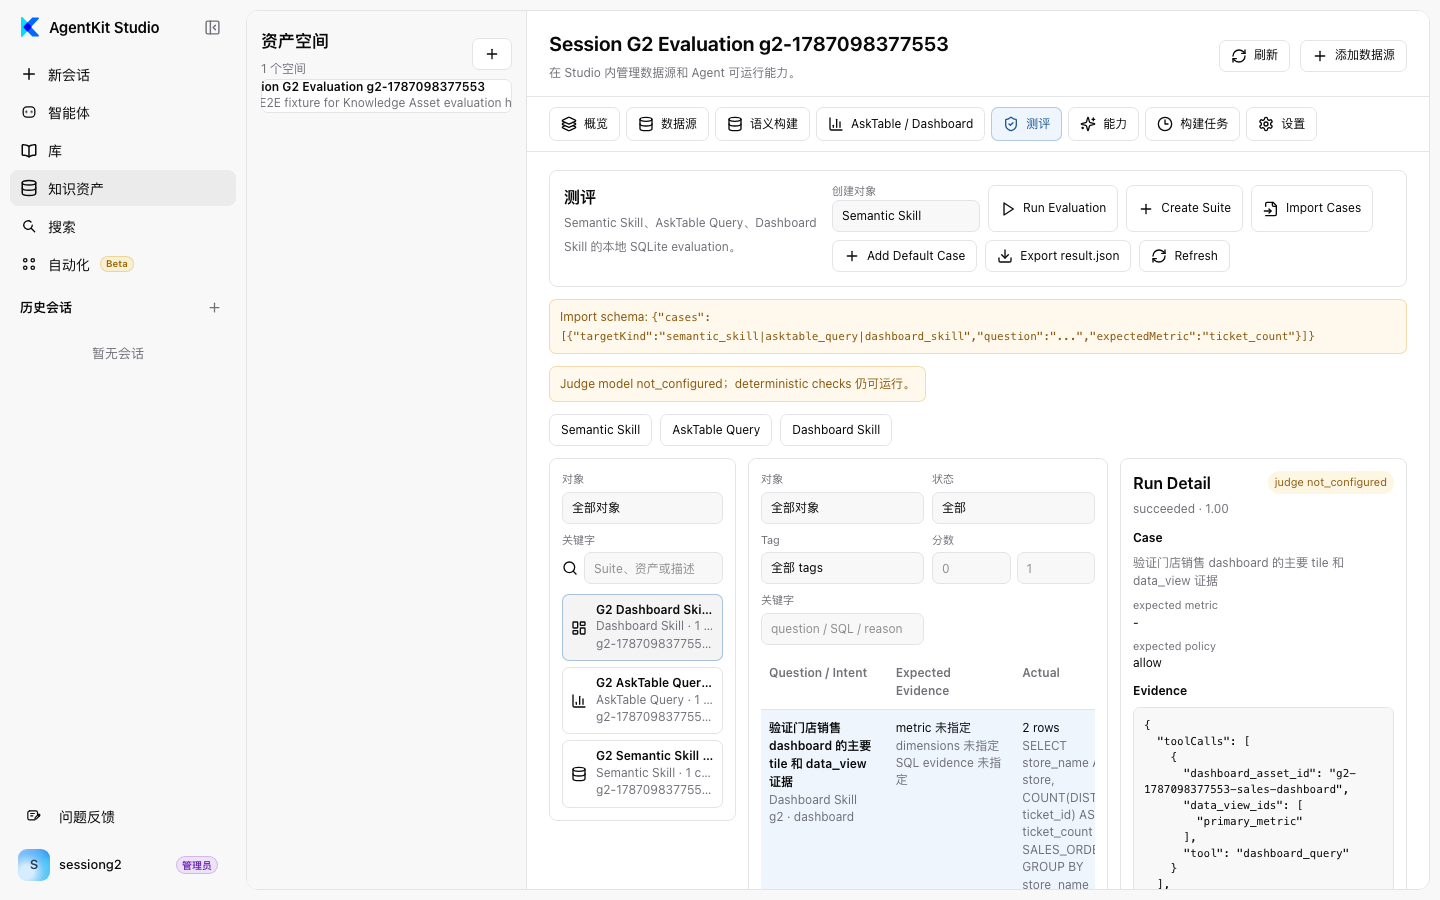
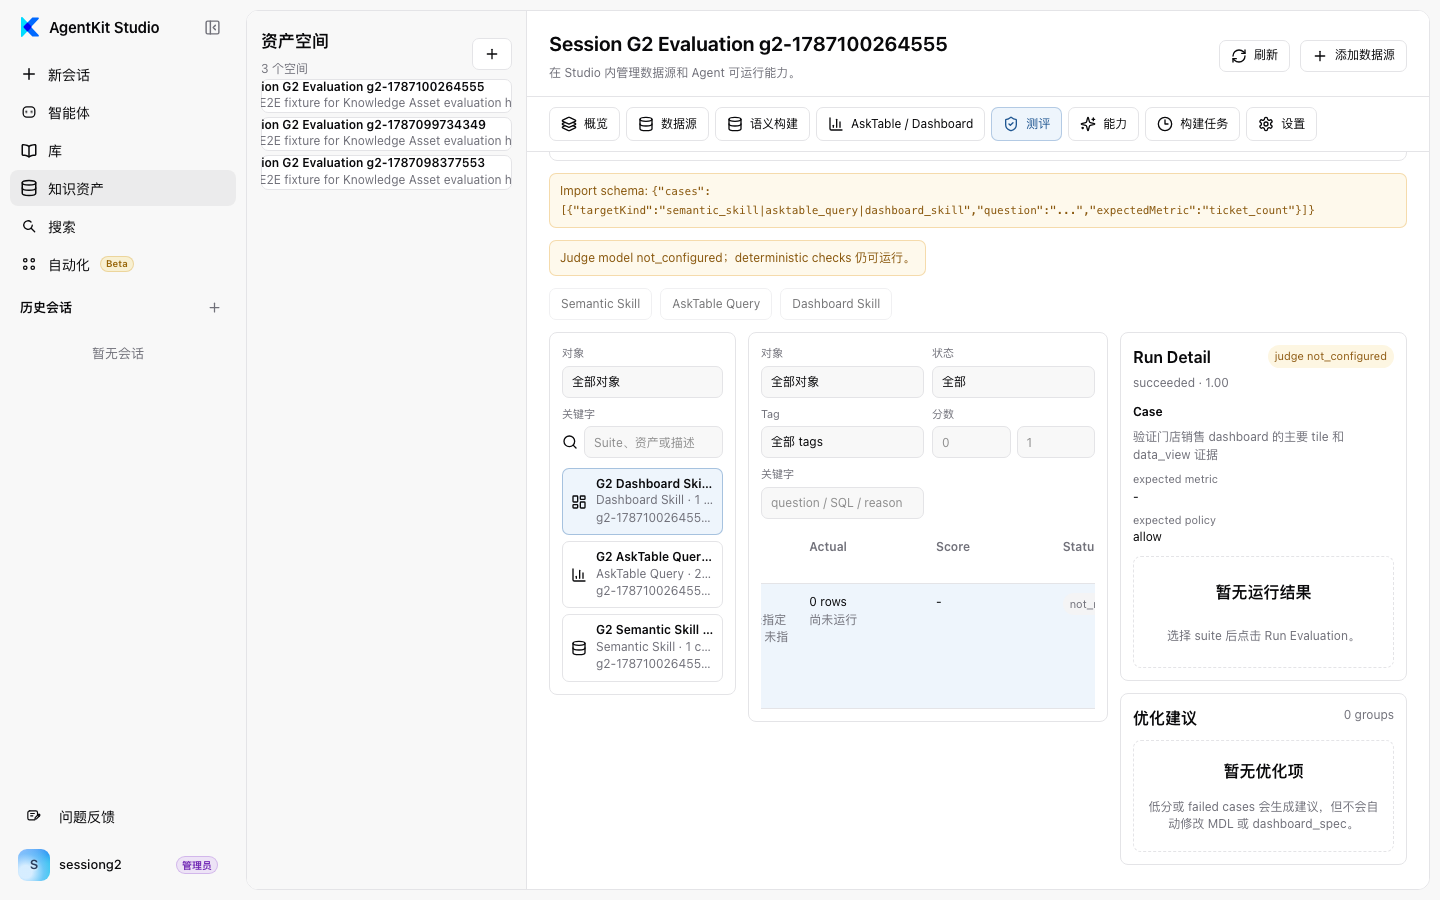
test: cover asktable pii evaluation denial

diff --git a/frontend/server/knowledge_assets/evaluation/service.py b/frontend/server/knowledge_assets/evaluation/service.py
@@ -573,6 +573,7 @@ class KnowledgeAssetEvaluatorService:
         )
         rows = data.get("rows") if isinstance(data.get("rows"), list) else []
         decision = str(policy.get("decision") or "").casefold()
+        expected_deny = case.expected_policy_decision.casefold() == "deny"
         checks = [
             (
                 _asset_id(query_result) == asset_id,
@@ -580,8 +581,8 @@ class KnowledgeAssetEvaluatorService:
             ),
             (not raw_fallback, "Raw SQL fallback was not used."),
             (
-                bool(rows) or decision == "deny",
-                "Rows are present or the request was correctly blocked.",
+                (decision == "deny" and not rows) if expected_deny else bool(rows),
+                "Rows are present unless an expected policy denial returned no rows.",
             ),
         ]
         checks.extend(_common_result_checks(case, query_result))
@@ -860,6 +861,11 @@ def _common_result_checks(
     policy = _dict(data.get("policyDecision"))
     freshness = _dict(data.get("freshness"))
     evidence = _list_of_dicts(data.get("evidence"))
+    rows = data.get("rows") if isinstance(data.get("rows"), list) else []
+    execution = _dict(data.get("execution"))
+    decision = str(policy.get("decision") or "").casefold()
+    expected_decision = case.expected_policy_decision.casefold()
+    expected_deny = expected_decision == "deny"
     checks: list[tuple[bool, str]] = [
         (bool(sql), "SQL evidence exists."),
         (bool(data.get("metricDefinition")), "Metric definition exists."),
@@ -867,6 +873,24 @@ def _common_result_checks(
         (bool(freshness), "Freshness evidence exists."),
         (bool(evidence), "Evidence exists."),
     ]
+    if expected_deny:
+        checks.extend(
+            [
+                (decision == "deny", "Expected policy denial was returned."),
+                (not rows, "Policy-denied request returned no rows."),
+                (
+                    freshness.get("status") == "blocked",
+                    "Policy-denied request has blocked freshness status.",
+                ),
+                (
+                    not bool(
+                        execution.get("raw_sql_fallback")
+                        or policy.get("raw_sql_fallback")
+                    ),
+                    "Policy-denied request did not use raw SQL fallback.",
+                ),
+            ]
+        )
     if case.expected_metric:
         expected = case.expected_metric.casefold()
         metric_values = {

diff --git a/tests/frontend/test_knowledge_asset_evaluation.py b/tests/frontend/test_knowledge_asset_evaluation.py
@@ -244,6 +244,49 @@ def test_asktable_evaluator_rejects_raw_sql_fallback(store: KnowledgeAssetStore)
     asyncio.run(scenario())
 
 
+def test_asktable_evaluator_accepts_pii_policy_denial(
+    store: KnowledgeAssetStore,
+) -> None:
+    async def scenario() -> None:
+        space_id = await _semantic_skill(store)
+        service = KnowledgeAssetEvaluatorService(store, judge=NoConfiguredJudge())
+        suite = await service.create_suite(
+            CreateKnowledgeAssetEvalSuiteBody(
+                spaceId=space_id,
+                name="AskTable PII Suite",
+                targetKind="asktable_query",
+                targetAssetId="oracle-sales",
+            )
+        )
+        await service.create_case(
+            suite.id,
+            CreateKnowledgeAssetEvalCaseBody(
+                question="show customer phone/contact by store",
+                expectedMetric="ticket_count",
+                expectedDimensions=["store"],
+                expectedSqlContains=["policy denied", "no raw SQL executed"],
+                expectedPolicyDecision="deny",
+                expectedEvidenceKeys=["PII policy guard"],
+            ),
+        )
+
+        detail = await service.run(RunKnowledgeAssetEvalBody(suiteId=suite.id))
+        result = detail.results[0]
+
+        assert detail.run.status == "blocked"
+        assert detail.run.score == 1
+        assert result.status == "blocked"
+        assert result.score == 1
+        assert result.actual_policy_decision["decision"] == "deny"
+        assert result.actual_freshness["status"] == "blocked"
+        assert result.actual_rows_preview == []
+        assert "no raw SQL executed" in result.actual_sql
+        assert result.tool_calls[0]["raw_sql_fallback"] is False
+        assert any(item["title"] == "PII policy guard" for item in result.evidence)
+
+    asyncio.run(scenario())
+
+
 def test_dashboard_evaluator_validates_spec_and_data_views(
     store: KnowledgeAssetStore,
 ) -> None:

diff --git a/docs/knowledge-center/session-reports/session-g2-evaluation/REPORT.md b/docs/knowledge-center/session-reports/session-g2-evaluation/REPORT.md
@@ -15,6 +15,7 @@
 - Added real `POST /api/knowledge-assets/evaluation/suites/{suite_id}/cases/import` with transactional all-or-nothing validation.
 - Import schema accepts `{ "cases": [...] }` where each case can include `targetKind`, `input`, `question`, `intent`, `expectedMetric`, `expectedDimensions`, `expectedSqlContains`, `expectedPolicyDecision`, `expectedDashboardTiles`, `expectedEvidenceKeys`, and `tags`.
 - Case creation/import rejects sensitive case content before persistence: password, secret, token, Authorization, and cookie values.
+- AskTable deterministic checks now explicitly support expected policy-deny cases while preserving the normal requirement that allowed queries return rows.
 - Frontend toolbar now has target-kind selection for `semantic_skill`, `asktable_query`, and `dashboard_skill`; Create Suite uses the selected kind.
 - Import Cases now opens a JSON file picker, parses top-level `cases` or array payloads, calls the import API, and reports imported count. The old placeholder is renamed to Add Default Case.
 - No-SSO identity startup now reads `/web/auth-config` first, so local mode does not probe missing `/oauth2/userinfo` and does not create a 404 in live E2E.
@@ -40,9 +41,13 @@
 
 | Target kind | Run ID | Status | Score | Evidence completeness |
 | --- | --- | --- | --- | --- |
-| `semantic_skill` | `eval_run_c5dedd936e464443adb20d944d8732f1` | `succeeded` | `1` | SQL `True`, dashboard diff `False`, policy `True`, freshness `True`, evidence `True` |
-| `asktable_query` | `eval_run_44e208c91af24b80b3ce851d21efec12` | `succeeded` | `1` | SQL `True`, dashboard diff `False`, policy `True`, freshness `True`, evidence `True` |
-| `dashboard_skill` | `eval_run_26b870627f564bc2a393814fff77719b` | `succeeded` | `1` | SQL `True`, dashboard diff `True`, policy `True`, freshness `True`, evidence `True` |
+| `semantic_skill` | `eval_run_99ecd429b22540fba3401ca5736fa815` | `succeeded` | `1` | SQL `True`, dashboard diff `False`, policy `True`, freshness `True`, evidence `True` |
+| `asktable_query` | `eval_run_256eff2a005c48728756e77190ec3ad7` | `succeeded` | `1` | SQL `True`, dashboard diff `False`, policy `True`, freshness `True`, evidence `True`; imported 2 cases covering allow and PII-deny |
+| `dashboard_skill` | `eval_run_043f00bc851a4f66b682be8b7753cf0e` | `succeeded` | `1` | SQL `True`, dashboard diff `True`, policy `True`, freshness `True`, evidence `True` |
+
+AskTable case evidence:
+- Allow case: `policyDecision=allow`, rows `2`, freshness `fresh`, raw SQL fallback `False`, evidence `ticket_count definition`.
+- PII/contact case: `policyDecision=deny`, status `blocked`, rows `0`, freshness `blocked`, SQL marker `no raw SQL executed`, raw SQL fallback `False`, evidence `PII policy guard`.
 
 - `mock`: `false`
 - `consoleErrors`: `0`
@@ -57,7 +62,7 @@ Screenshots:
 
 ## Validation
 
-- `uv run pytest tests/frontend/test_knowledge_asset_evaluation.py tests/frontend/test_knowledge_asset_store.py -q` -> 29 passed.
+- `uv run pytest tests/frontend/test_knowledge_asset_evaluation.py tests/frontend/test_knowledge_asset_store.py -q` -> 30 passed.
 - `npm test -- knowledgeAssetWorkbench.test.mjs` -> passed. The package script expanded to `node --test tests/*.test.mjs knowledgeAssetWorkbench.test.mjs`, so it ran the full frontend node suite: 674 passed.
 - `npm run build` -> passed. Vite emitted existing dynamic-import/chunk-size warnings for large shared frontend modules.
 - `python -m py_compile frontend/server/knowledge_assets/evaluation/repository.py frontend/server/knowledge_assets/evaluation/models.py frontend/server/knowledge_assets/evaluation/routes.py frontend/server/knowledge_assets/evaluation/service.py` -> passed.
@@ -67,7 +72,7 @@ Screenshots:
 
 - `gitleaks version` -> not installed in this environment.
 - Custom scan result: `passed`.
-- Custom scan command: `python inline custom_sensitive_scan.py <requested G2 paths>`.
+- Custom scan command: `python inline custom_sensitive_scan.py <git diff and requested G2 paths>`.
 - Findings: `0`.
 - Result file: `docs/knowledge-center/session-reports/session-g2-evaluation/secret-scan-result.json`.
 
